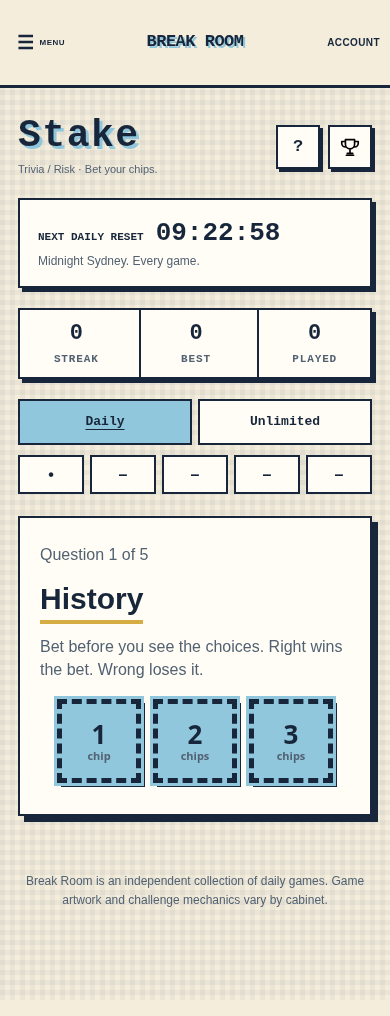
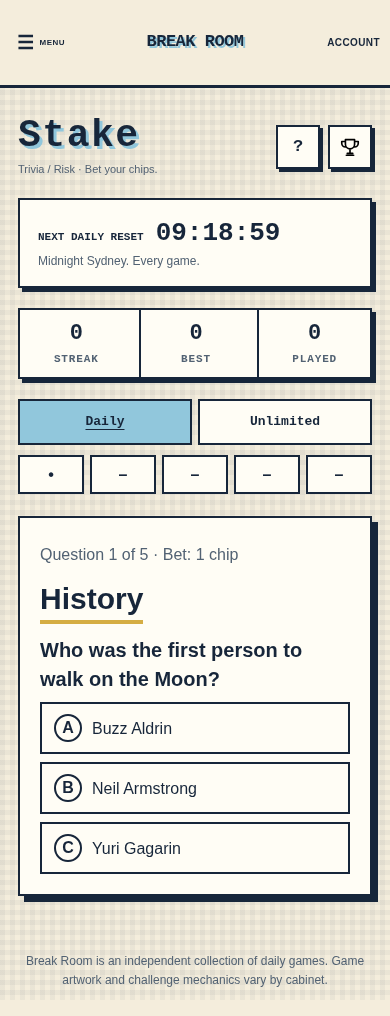
Restore circular poker chips in Stake

diff --git a/break-room.css b/break-room.css
@@ -2,7 +2,7 @@
 :root,:root[data-theme],:root:not([data-theme="light"]){color-scheme:light;--paper:#f4eddc;--paper-deep:#e9dfc8;--ink:#17263a;--ink-soft:#526273;--white:#fffdf5;--blue:#91c7dc;--blue-deep:#3e86a5;--lime:#b8d957;--coral:#ee6557;--bg:#f4eddc;--bg-raised:#e9dfc8;--panel:#fffdf5;--panel-hover:#f9e2a7;--panel-deep:#e9dfc8;--card:#fffdf5;--text:#17263a;--muted:#526273;--mut:#526273;--dim:#526273;--line:#17263a;--line-bright:#17263a;--pink:#ee6557;--cyan:#3e86a5;--yellow:#f9e2a7;--green:#6cae72;--purple:#e1d1ec;--red:#b23b32;--felt:#3e86a5;--gold:#d5ad43;--ok:#3a7850;--okbg:#e2efc0;--no:#b23b32;--nobg:#f9d5cc;--pixel:"Courier New",monospace;--body:Arial,Helvetica,sans-serif;--shadow:4px 4px 0 #17263a}
 html,body,body:has(.standalone-page){background-color:var(--paper);color:var(--ink);font-family:var(--body);background-image:linear-gradient(90deg,rgba(23,38,58,.045) 50%,transparent 50%),linear-gradient(rgba(23,38,58,.045) 50%,transparent 50%);background-size:10px 10px}body:before,body:after{display:none!important}h1,h2,h3{font-family:var(--pixel);color:var(--ink)!important;letter-spacing:-1px}h1{text-shadow:3px 3px var(--blue)!important}h2,h3{text-shadow:none!important}p,small,.section-meta,.eyebrow,.stat-label,.stat-note,.feed-person small,.game-meta,.footer-inner,.field label{color:var(--ink-soft)}a:focus-visible,button:focus-visible,input:focus-visible{outline:3px solid var(--coral);outline-offset:4px}button,a,input{border-radius:0!important}button:disabled{cursor:default}.site-header,.game-site-header{background:var(--paper)!important;backdrop-filter:none;box-shadow:none!important;border-bottom:3px solid var(--ink)!important;position:relative}.header-inner,.game-header-inner{min-height:100px}.brand,.game-site-header .brand{color:var(--ink);font:900 24px/.95 var(--pixel)!important;letter-spacing:-1.5px;gap:10px;text-shadow:2px 2px var(--blue);max-width:none}.break-mark{display:grid;grid-template-columns:repeat(2,10px);gap:3px;flex:none}.break-mark i{width:10px;height:10px;background:var(--blue);border:1px solid var(--ink)}.break-mark i:nth-child(2){background:var(--lime)}.break-mark i:nth-child(3){background:var(--coral)}.break-mark i:nth-child(4){background:var(--yellow)}.nav a,.game-header-account,.game-menu-toggle{color:var(--ink)!important;text-shadow:none;background:transparent;box-shadow:none;border:0;font:800 12px var(--body)}.nav a[aria-current]{background:transparent;border-bottom:4px solid var(--coral)}.nav img,.mini-tool img,.footer-links img{filter:brightness(0)!important}.avatar,.profile-avatar{color:var(--ink);background:var(--blue);border:2px solid var(--ink);box-shadow:3px 3px var(--ink)}.button,.button.pink,.button.secondary,.btn,.icon-button,.mini-tool,.popup-done,.game-popup .button.pink{color:var(--ink)!important;background:var(--lime)!important;border:2px solid var(--ink)!important;box-shadow:3px 3px var(--ink)!important;border-radius:0;text-shadow:none;font-family:var(--pixel);font-weight:900}.button.secondary,.btn.alt,.mini-tool{background:var(--white)!important}.button:hover,.btn:hover{transform:translate(-2px,-2px);box-shadow:5px 5px var(--ink)!important}.button:active,.btn:active{transform:translate(2px,2px);box-shadow:1px 1px var(--ink)!important}.panel,.stat,.auth-card,.empty-state,.modal-demo,.asset-sample,.friend-code,.mini-score,.notice,.reset-bar{background:var(--white)!important;border:2px solid var(--ink)!important;box-shadow:4px 4px var(--ink)!important;color:var(--ink)}.panel:before,.panel:after,.stat:before,.stat:after,.auth-card:after{display:none}.input,input,textarea{background:var(--white)!important;color:var(--ink)!important;border:2px solid var(--ink)!important}.stat-value,.score,.reset-bar strong,.mini-score{color:var(--ink)!important;text-shadow:none}.field label,.game-stats th,.game-stats td{color:var(--ink);border-color:var(--paper-deep)}.site-footer,.standalone-site-footer{background:transparent!important;box-shadow:none;border-top:2px solid var(--ink)!important}.game-menu{background:var(--white)!important;border-color:var(--ink)!important;box-shadow:7px 0 var(--ink)!important}.game-menu-heading,.game-menu-group a{background:var(--white)!important;color:var(--ink)!important;border-color:var(--ink)!important}.game-menu-close,.game-popup-close{background:var(--yellow)!important;color:var(--ink)!important;border:2px solid var(--ink)!important}.game-menu-backdrop,.game-popup-backdrop{background:#17263a80!important;backdrop-filter:none}.game-popup{background:var(--white)!important;color:var(--ink)!important;border:3px solid var(--ink)!important;border-radius:0!important;box-shadow:7px 7px var(--ink)!important}.game-popup p,.game-popup h2,.game-popup .popup-kicker{color:var(--ink-soft)!important}.popup-instructions,.extended-stats-grid>div{background:var(--paper)!important;border:2px solid var(--ink)!important;border-radius:0!important;color:var(--ink)!important}.extended-stats-grid strong{color:var(--ink)!important}.standalone-title-group p,.daily-countdown,.item-subline{color:var(--ink-soft)!important}.quick-stats{background:var(--white)!important;border:2px solid var(--ink)!important;box-shadow:4px 4px var(--ink)!important;border-radius:0!important}.quick-stat strong{color:var(--ink)!important}.quick-stat span{color:var(--ink-soft)!important}.quick-stat+div{border-left:2px solid var(--ink)}.mode-switch,.tabs{background:transparent!important;border-radius:0}.mode-option,.tabs button{border:2px solid var(--ink)!important;color:var(--ink)!important;background:var(--white)!important;border-radius:0!important;font:900 13px var(--pixel)}.mode-option.is-selected,.tabs button[aria-selected=true]{background:var(--blue)!important;color:var(--ink)!important}.interchange-card,.game-state,.card,.arcade-game-panel{background:var(--white)!important;border:2px solid var(--ink)!important;box-shadow:6px 6px var(--ink)!important;border-radius:0!important}.game-state h2,.game-state p{color:var(--ink)!important;text-shadow:none}.engine-slot{background:var(--paper)!important;color:var(--ink);border:2px dashed var(--ink-soft)}.score-badge{background:var(--yellow)!important;color:var(--ink)!important;border:1px solid var(--ink)!important;box-shadow:none}.result-score,.used-score,.result-score small{color:var(--ink)!important;text-shadow:none}.results-stamp,.playfield-kicker{background:var(--lime);color:var(--ink)}.standalone-footer,.standalone-legal a,.sound-control{color:var(--ink-soft)!important}.lowball-main,.lowball-frame{background:transparent!important}.lowball-main{z-index:auto}.round-dots span{border-color:var(--ink);background:var(--white)}.round-dots span.active{background:var(--coral)}
 /* Live Stake: broad board on the left, existing stats and reset on the right. */
-body:has(#app) .standalone-page{max-width:1360px;width:100%;padding:40px 32px}body:has(#app) .standalone-wrap{width:100%;max-width:none;padding:0;display:grid;grid-template-columns:minmax(0,1fr) 300px;gap:24px 38px}.standalone-heading:has(#stake-page-title){grid-column:1;grid-row:1;display:flex;justify-content:space-between;text-align:left;margin:0}.standalone-heading:has(#stake-page-title) .standalone-heading-spacer{display:none}#stake-page-title{font-size:38px}.standalone-wrap:has(#app)>.quick-stats{grid-column:2;grid-row:2;align-self:start;margin:0}#app{grid-column:1;grid-row:2/5;min-width:0}#app>.top{display:none}#app .tabs{margin-top:0}#app .card{padding:28px;margin-top:22px;min-height:300px}#app .opt{border-color:var(--ink);background:var(--white);color:var(--ink);border-radius:0}#app .opt.ok{background:var(--okbg)}#app .opt.no{background:var(--nobg)}#app .pip{border-radius:0;background:var(--white)}#app .pip.ok{background:var(--okbg)}#app .pip.no{background:var(--nobg)}#app .chip{background:var(--blue);color:var(--ink);border:5px dashed var(--ink);box-shadow:0 0 0 3px var(--blue),4px 4px var(--ink)}.live-reset{grid-column:2;grid-row:1;background:var(--white);border:2px solid var(--ink);box-shadow:4px 4px var(--ink);padding:18px;font:800 11px var(--pixel)}.live-reset strong{display:block;font-size:34px;margin:12px 0}.live-reset p{font:12px var(--body);margin:0}.standalone-wrap:has(#app)>.standalone-footer{grid-column:1/-1}.standalone-wrap:has(#app)>.game-popup-backdrop{grid-column:auto}
+body:has(#app) .standalone-page{max-width:1360px;width:100%;padding:40px 32px}body:has(#app) .standalone-wrap{width:100%;max-width:none;padding:0;display:grid;grid-template-columns:minmax(0,1fr) 300px;gap:24px 38px}.standalone-heading:has(#stake-page-title){grid-column:1;grid-row:1;display:flex;justify-content:space-between;text-align:left;margin:0}.standalone-heading:has(#stake-page-title) .standalone-heading-spacer{display:none}#stake-page-title{font-size:38px}.standalone-wrap:has(#app)>.quick-stats{grid-column:2;grid-row:2;align-self:start;margin:0}#app{grid-column:1;grid-row:2/5;min-width:0}#app>.top{display:none}#app .tabs{margin-top:0}#app .card{padding:28px;margin-top:22px;min-height:300px}#app .opt{border-color:var(--ink);background:var(--white);color:var(--ink);border-radius:0}#app .opt.ok{background:var(--okbg)}#app .opt.no{background:var(--nobg)}#app .pip{border-radius:0;background:var(--white)}#app .pip.ok{background:var(--okbg)}#app .pip.no{background:var(--nobg)}#app .chip{width:clamp(60px,20vw,84px);height:auto;aspect-ratio:1;flex-shrink:0;border-radius:50%!important;background:var(--blue);color:var(--ink);border:6px dashed var(--white);outline:2px solid var(--ink);box-shadow:0 5px 0 2px var(--ink)}.live-reset{grid-column:2;grid-row:1;background:var(--white);border:2px solid var(--ink);box-shadow:4px 4px var(--ink);padding:18px;font:800 11px var(--pixel)}.live-reset strong{display:block;font-size:34px;margin:12px 0}.live-reset p{font:12px var(--body);margin:0}.standalone-wrap:has(#app)>.standalone-footer{grid-column:1/-1}.standalone-wrap:has(#app)>.game-popup-backdrop{grid-column:auto}
 @media(max-width:900px){.brand,.game-site-header .brand{font-size:19px!important}.header-inner,.game-header-inner{min-height:85px}body:has(#app) .standalone-wrap{grid-template-columns:minmax(0,1fr) 240px;gap:20px}.live-reset strong{font-size:28px}}
 @media(max-width:650px){.break-mark{display:none}.brand,.game-site-header .brand{font-size:17px!important}.game-header-inner{gap:6px}.game-menu-toggle,.game-header-account{font-size:10px!important}body:has(#app) .standalone-page{padding:26px 18px}body:has(#app) .standalone-wrap{display:flex;flex-direction:column;gap:20px}.standalone-heading:has(#stake-page-title){order:0}.live-reset{order:1}.standalone-wrap:has(#app)>.quick-stats{order:2;width:100%}#app{order:3;width:100%}.standalone-wrap:has(#app)>.standalone-footer{order:4}#app .card{padding:20px}.live-reset strong{display:inline-block;margin:0 0 6px 12px;font-size:26px}.game-popup{max-width:calc(100vw - 32px)}.extended-stats-grid{gap:8px}}
 .quick-stat{border-radius:0!important;box-shadow:none!important;background:var(--white)!important;border:0!important}.quick-stat+div{border-left:2px solid var(--ink)!important}.page-intro p,.standalone-footer p,.section-head h2,.empty-art,.feed-row,.notice{color:var(--ink-soft)!important}.empty-art{background:var(--blue)!important;border-color:var(--ink)!important}.feed-row{border-color:#bed0cd}.eyebrow{text-shadow:none}.game-menu{z-index:1100!important}.game-menu-backdrop{z-index:1090!important}
